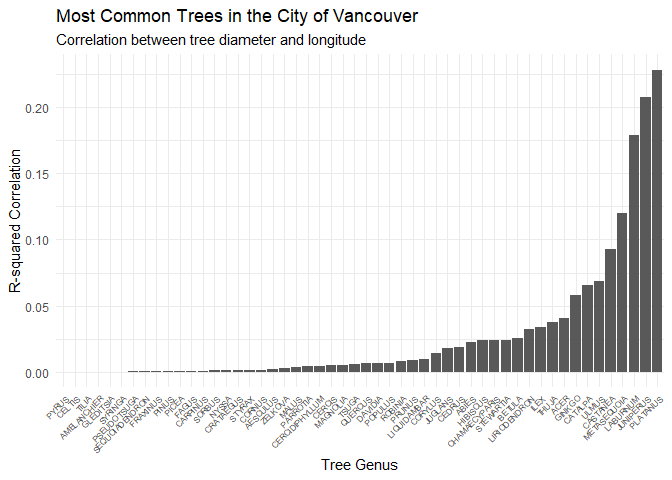
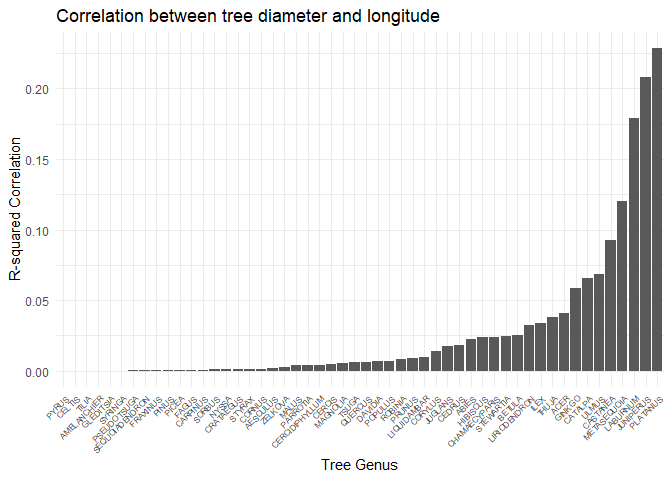
Updated graph title

diff --git a/assignment-b4.md b/assignment-b4.md
@@ -157,7 +157,7 @@ plot_data <- final_tbl %>%
 ggplot(plot_data, aes(x = genus_name, y = avg_r_squared)) +
   geom_bar(stat = "identity") +
   theme_minimal() +
-  labs(title = "Most Common Trees in the City of Vancouver", subtitle = "Correlation between tree diameter and longitude", x = "Tree Genus", y = "R-squared Correlation") +
+  labs(title = "Correlation between tree diameter and longitude", x = "Tree Genus", y = "R-squared Correlation") +
   theme(axis.text.x = element_text(angle = 45, hjust = 1, size = 6))
 ```
 
